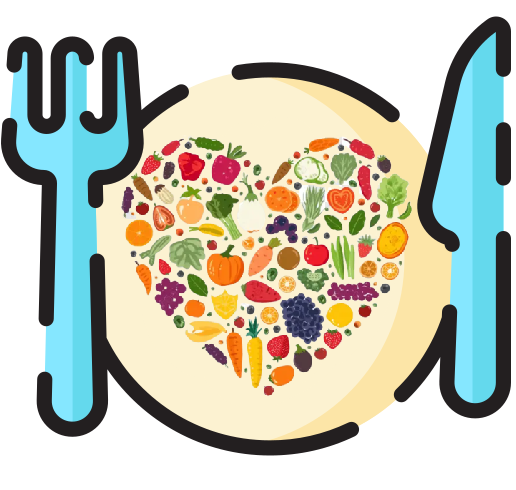
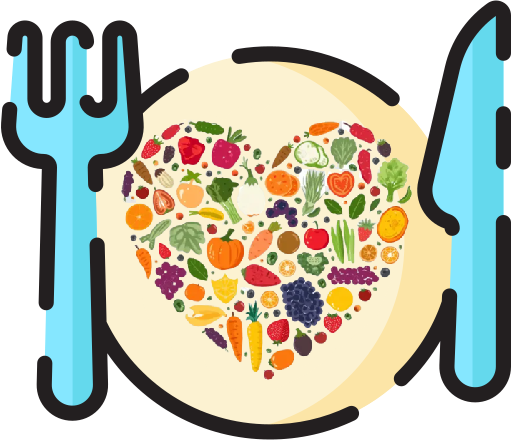
nem liga

diff --git a/estilo.css b/estilo.css
@@ -15,8 +15,8 @@ body{
 
 .icone-img{
     width: 8rem;
-    margin-top: 4rem;
-    margin-left: 6rem;
+    margin-top: 3rem;
+    margin-left: 3rem;
 }
 
 aside{
@@ -34,7 +34,7 @@ header{
     font-family: 'Trebuchet MS', 'Lucida Sans Unicode', 'Lucida Grande', 'Lucida Sans', Arial, sans-serif;
     text-shadow: 2px 2px 0px #231f20;
     margin: 0;
-    margin-top: 6rem;
+    margin-top: 5rem;
 }
 
 .linq{
